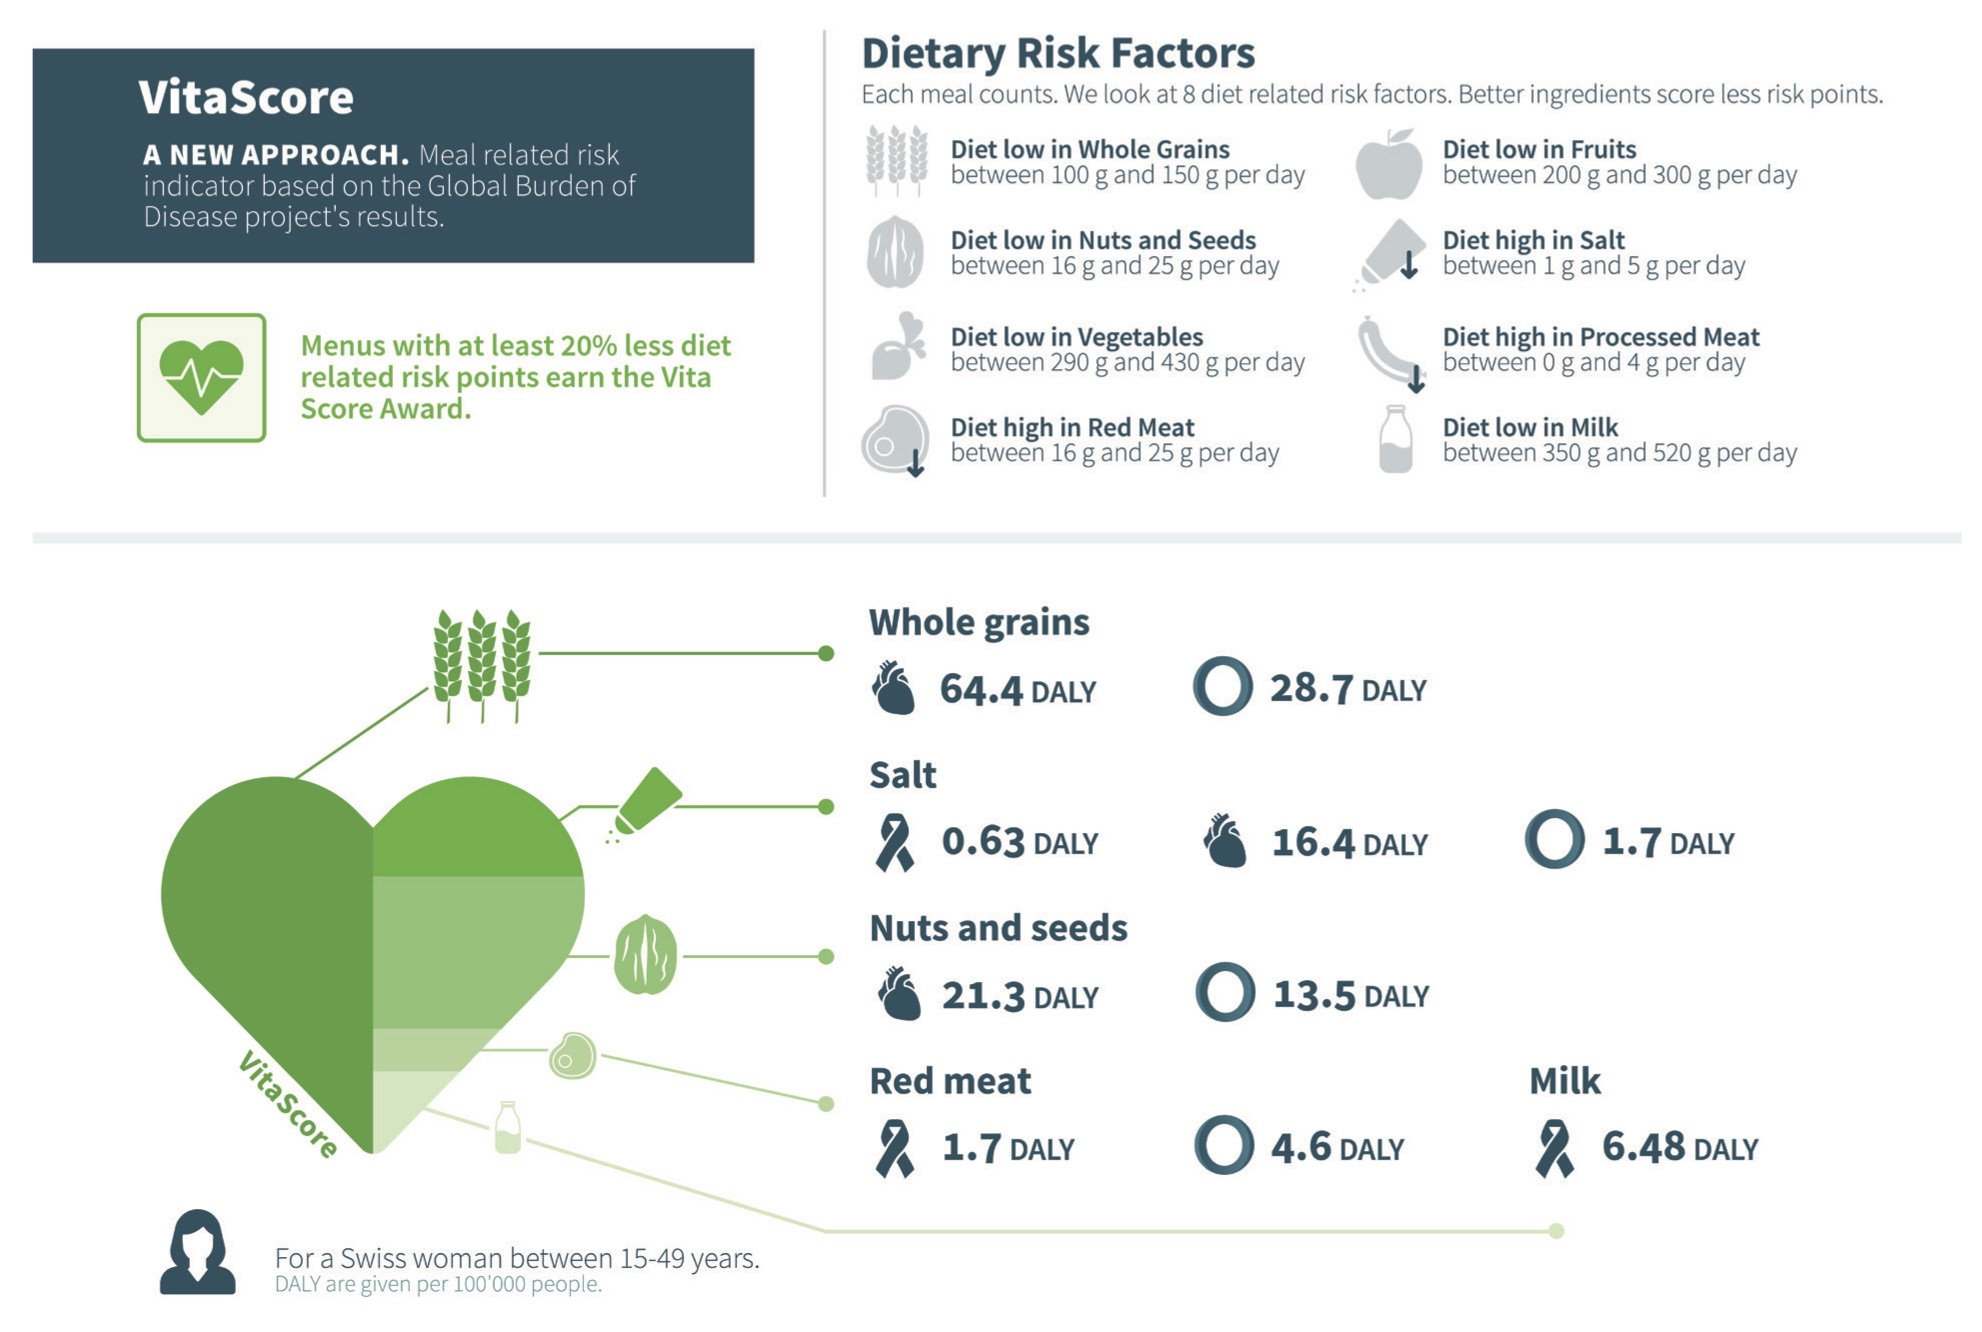
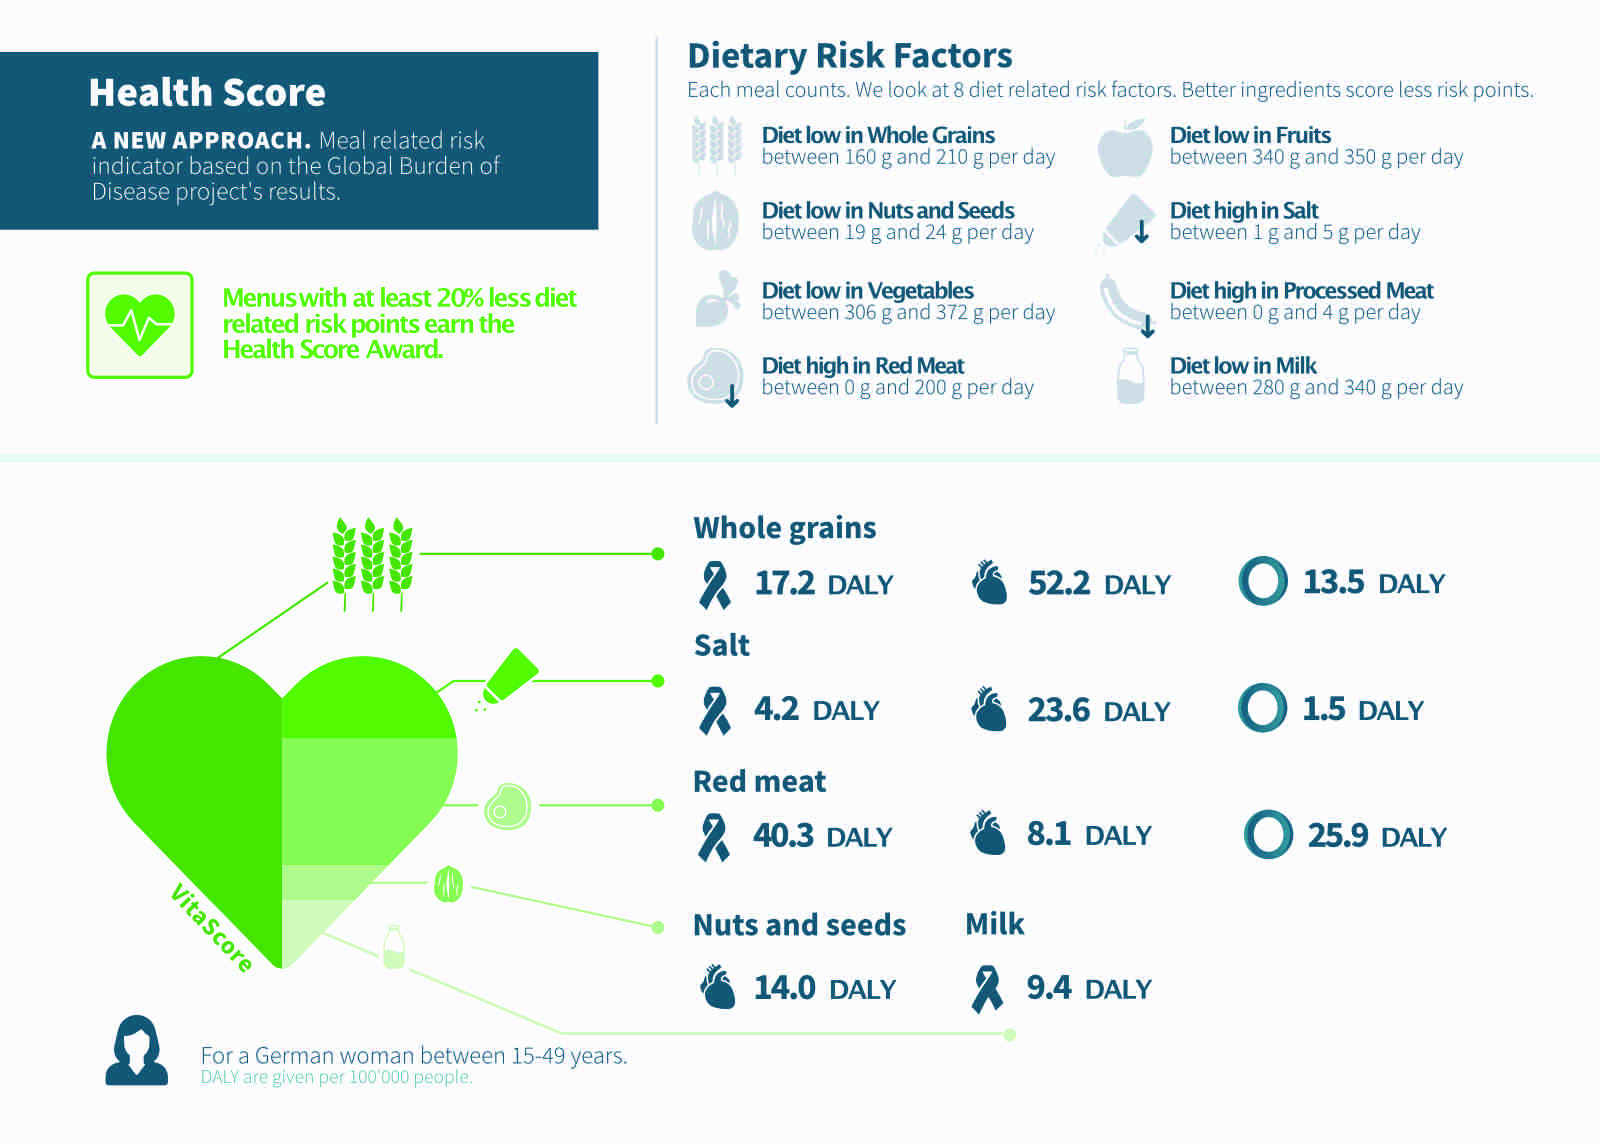
updates health + nutrition score

diff --git a/_posts/foodprint/0000-01-01-vita-score.md b/_posts/foodprint/0000-01-01-vita-score.md
@@ -61,7 +61,7 @@ categories: foodprint
 		</div>
     <div class="col-xs-12 col-sm-6 push-top">
       <h3>Scientific Facts</h3>
-      <p>The Global Burden of Diseases, Injuries and Risk Factors (GBD) Study is an independently funded collaboration from over 2'300 scientists and constitutes the largest epidemiological study today. It identifies 84 behavioral, environmental and occupational, and metabolic risks or clusters of risks that lead to diseases. Through the assessment of more than 15'000 studies it approaches accurate numbers for disability adjusted life years (DALY) lost per 100'000 people dependent on age, gender and location for each individual risk factor. It provides new insights on the risks we should be concerned to improve our lives. <a style="float:right;margin-right:20px;" href="#references">Learn more</a>
+      <p>The Global Burden of Diseases, Injuries, and Risk Factors Study (GBD) is the single largest and most detailed scientific effort ever conducted to quantify levels and trends in health. Led by the Institute for Health Metrics and Evaluation (IHME) at the University of Washington, it is truly a global effort, with over 12,000 researchers from more than 160 countries and territories participating in the most recent update. It identifies 87 behavioral, environmental and occupational, and metabolic risks or clusters of risks that lead to diseases. Through the assessment of more than 90'000 studies it approaches accurate numbers for disability adjusted life years (DALY) lost per 100'000 people dependent on age, gender and location for each individual risk factor. It provides new insights on the risks we should be concerned to improve our lives. <a style="float:right;margin-right:20px;" href="#references">Learn more</a>
 			 </p>
     </div>
 		<div class="col-xs-12 col-sm-6 push-top">
@@ -73,7 +73,7 @@ categories: foodprint
 
     <div class="col-xs-12 col-sm-7  small-push-top">
       <h3>A Health Indicator for Foods </h3>
-      <p>The Health Score currently uses 8 non-overlapping dietary factors identified by the GBD study, namely whole grains, fruits, vegetables, nuts and seeds, processed meat, red meat, milk and salt. Providing a guideline to follow a “minimum risk diet”, the Health Score calculates how much of the recommendations are fulfilled in relation to the caloric content of a meal, weighted according to the severity of their outcomes. For example, lack of wholegrains in the Swiss population is related to 124 years of life lost per 100’000 people, whereas eating too much salt is related to 46 years of life lost.</p>
+      <p>The Health Score currently uses 8 non-overlapping dietary factors identified by the GBD study, namely whole grains, fruits, vegetables, nuts and seeds, processed meat, red meat, milk and salt. Providing a guideline to follow a “minimum risk diet”, the Health Score calculates how much of the recommendations are fulfilled in relation to the caloric content of a meal, weighted according to the severity of their outcomes. For example, lack of wholegrains in the German population is related to 83 years of life lost per 100’000 people, whereas eating too much salt is related to 29 years of life lost.</p>
     		<a href="/assets/smart-chefs/2017-12-12_VitaScore_Documentation_web.pdf"><button>Learn more</button></a>
     </div>
 
@@ -120,9 +120,9 @@ categories: foodprint
 
     <div class="row  push-bottom">
     	<div class="col-xs-12 col-sm-7 ">
-    			<p>The nutritional content of a meal or product to meet the daily nutrient recommendations can be analyzed separately and independently. The Nutrition Label analyzes per person and portion if the food is „well balanced“ in the sense that it provides you with all the daily energy requirements.</p>
+    			<p>The nutritional content of a meal or product to meet the daily nutrient recommendations can be analyzed separately or together with the Health Score. The Nutrition Score analyzes per person and portion if the food is „well balanced“ in the sense that it provides you with all the daily energy requirements.</p>
 
-    			<p>An average warm meal should make around one third of the recommended daily amount of 2000 kcal of energy intake, those nutrients which go above this range will be clearly marked. This way also the nutritional content of a meal can be conveniently optimized.</p>
+    			<p>An average warm meal should provide about one-third of the recommended daily energy intake of 2,000 to 2,400 kcal. Nutrients that exceed this range will be clearly marked. This way, the nutritional content of a meal can be conveniently optimized toward the ideal proportion of proteins and fats. Risks from overeating are responsible for 50% of the DALYs lost due to obesity (the GBD value for a person in Germany is 531.95 DALYs).</p>
     				<!-- <a href="/app/get-the-app/"><button>Learn more about the formula</button></a> -->
     		</div>
     </div>
@@ -142,13 +142,13 @@ categories: foodprint
 
       <div class="row small-push-bottom">
     		<div class="col-xs-12  small-push-top">
-    			<h3>The Nutrition Label</h3>
+    			<h3>The Nutrition Score</h3>
     		</div>
     		<div class="col-xs-2 small-push-top">
     		    					<img src="/img/foodprint/vita-score/NutritionLabel.svg">
     		</div>
         <div class="col-xs-5 small-push-top">
-          <p>Balanced menus with a good energy value receive the 3-star Nutrition Score. These menus do derive 5-14% of it’s calories from proteins and 20-35% from fat, while having a total energy value between 450 and 850 kcal.</p>
+          <p>Balanced menus with a good energy value receive the 5-star Nutrition Score. These menus do derive 10-35% of it’s calories from proteins and 20-35% from fat, while having a total energy value between 450 and 850 kcal.</p>
     		</div>
       </div>
     </div>
